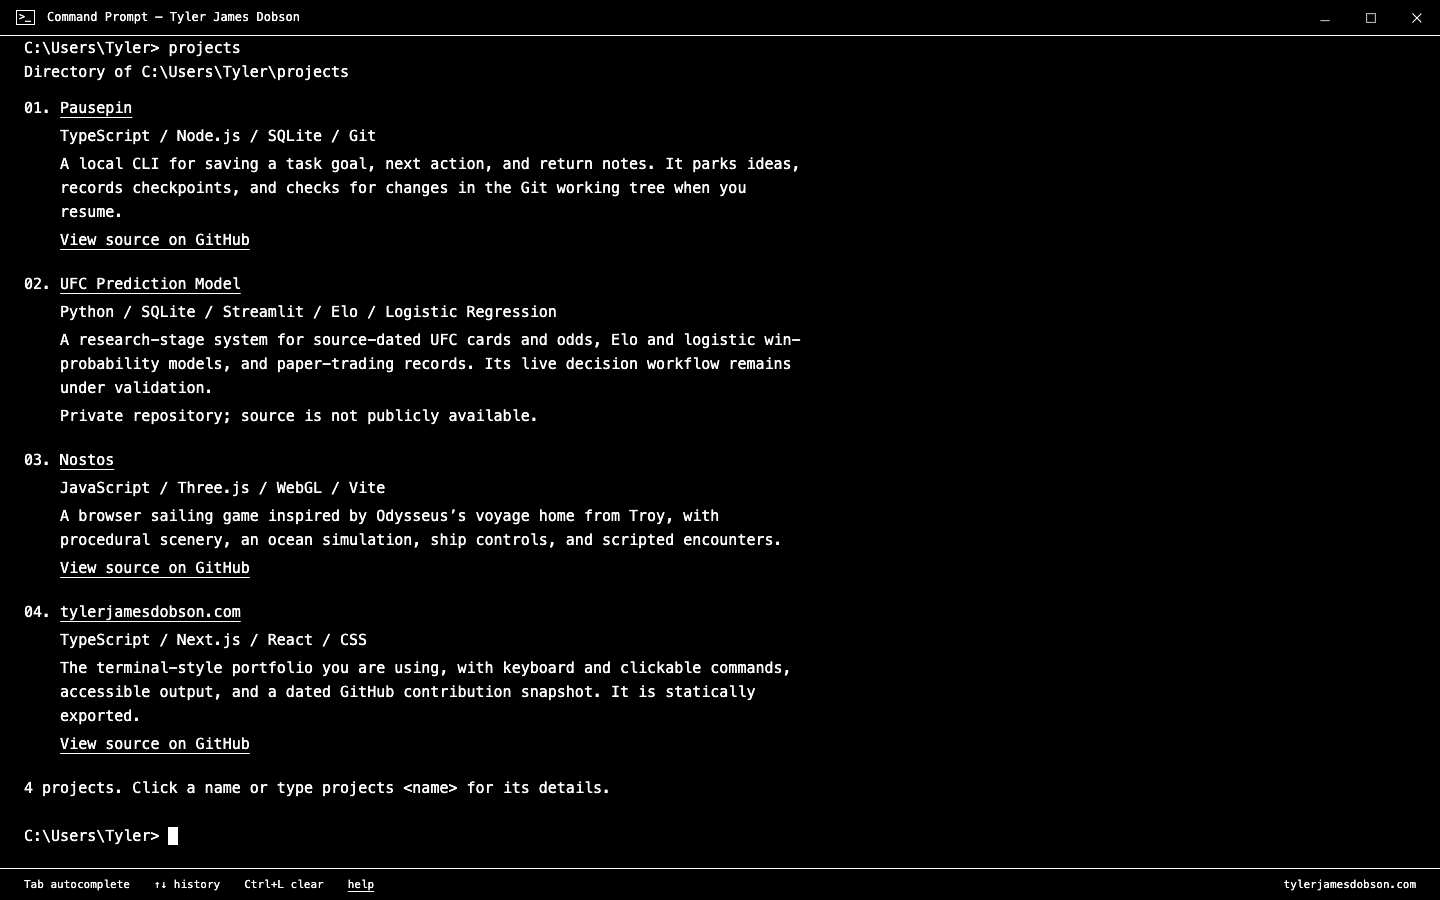
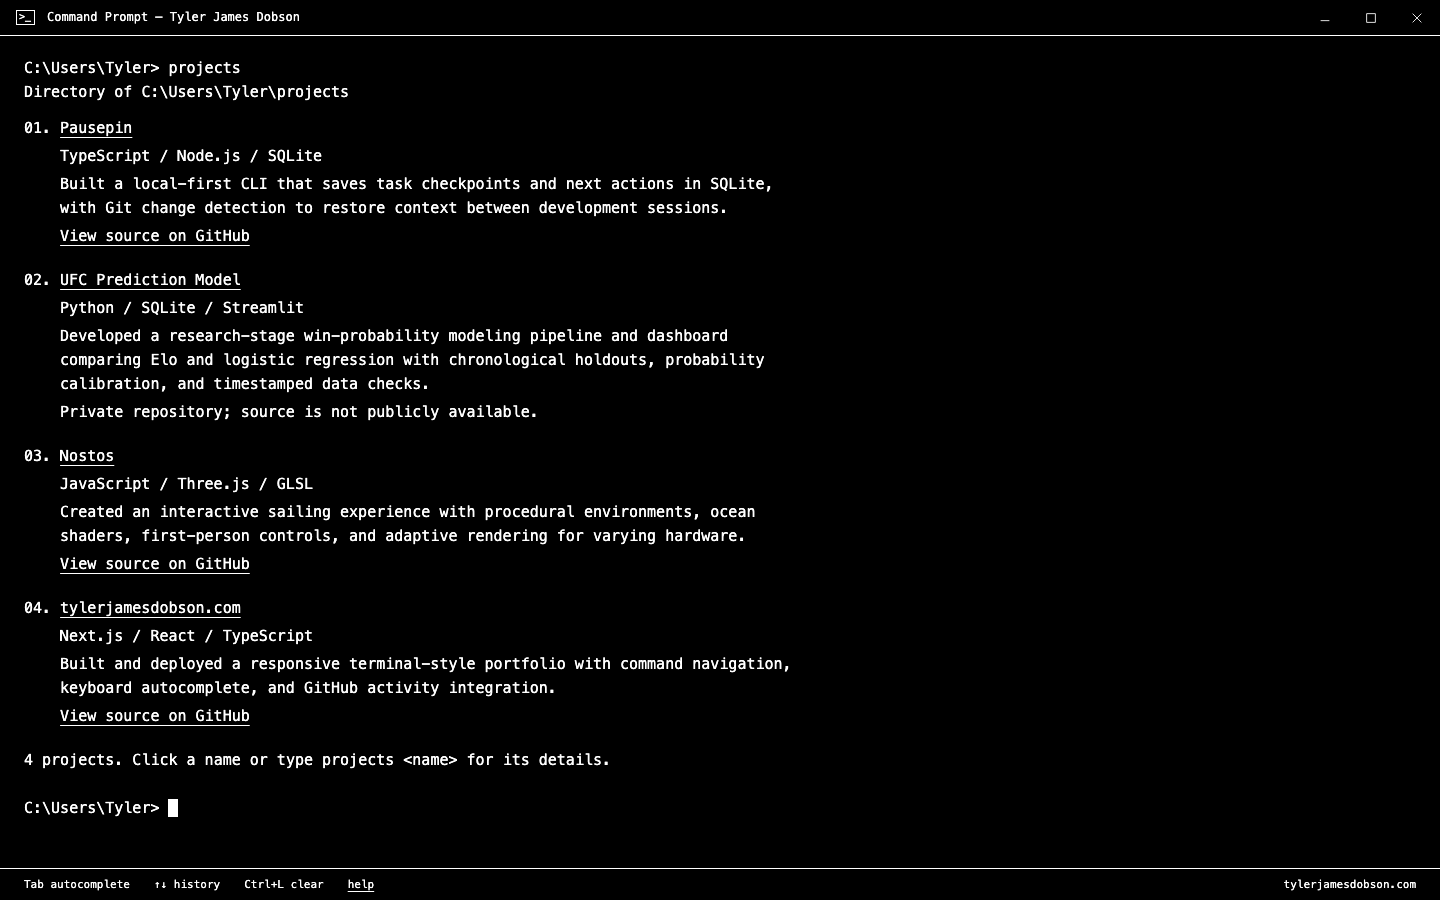
Sync portfolio resume with latest PDF

Changed region(s): [[0.0, 0.4978, 0.5625, 0.9333], [0.0, 0.0311, 0.5625, 0.28], [0.0312, 0.3111, 0.5625, 0.4667]]

diff --git a/app/portfolio.ts b/app/portfolio.ts
@@ -9,20 +9,24 @@ export const PROFILE = {
 
 export const EDUCATION = {
   school: 'University of South Florida',
-  location: 'Tampa, Florida',
-  degree: 'Business Analytics and Information Systems major',
+  location: 'Tampa, FL',
+  degree: 'B.S. in Business Analytics & Information Systems',
   graduation: 'Expected May 2027',
-  coursework: ['Business Analytics', 'Information Systems', 'Data Analysis', 'SQL & Databases', 'Programming Fundamentals (Python, Java)', 'Statistics'],
+  coursework: ['Database Design and Administration', 'Python for Business Analytics', 'Systems Analysis and Design', 'Business Application Development'],
 }
 
-export const CERTIFICATIONS = [
-  { name: 'Programming with Python Professional Certificate', issuer: 'OpenEDG Python Institute', date: 'May 2026' },
-  { name: 'Career Essentials in Data Analysis', issuer: 'Microsoft & LinkedIn', date: 'Apr 2026' },
-  { name: 'Career Essentials in GitHub Professional Certificate', issuer: 'GitHub', date: 'Apr 2026' },
-]
+export const DATA_SCIENCE_PROGRAM = {
+  name: 'Data Science Program',
+  organization: 'The Global Career Accelerator',
+  dates: 'May 2026 – Aug 2026',
+  highlights: [
+    'Completed USF/Podium credit-bearing coursework; developed SQL and Python (pandas, NumPy) skills through industry-partner projects with Intel and The Recording Academy.',
+    'Collaborated with a global student cohort under industry-practitioner mentorship to deliver analyses on Grammy.com content and audience strategy.',
+  ],
+}
 
 export const LEADERSHIP = [
-  { role: 'Social Resources Chair', organization: 'Alpha Epsilon Pi (Psi Phi)', dates: 'Nov 2025 – Present', description: 'Coordinate event logistics, vendor communication, and executive board updates under budget and compliance constraints.' },
+  { role: 'Social Resources Chair', organization: 'Alpha Epsilon Pi (Psi Phi)', dates: 'Nov 2025 – Aug 2026', description: 'Coordinated event logistics, vendor communication, and executive board updates under budget and compliance constraints.' },
   { role: 'Leadership Development Scholar', organization: 'National Society of Leadership and Success', dates: 'Sep 2024 – Present', description: 'Completed programming in communication, accountability, team development, and public speaking.' },
   { role: 'Member', organization: 'Future Business Leaders of America, USF Chapter', dates: '', description: 'Chapter programming across business analytics, finance, and information systems professional development.' },
 ]
@@ -30,23 +34,13 @@ export const LEADERSHIP = [
 export const EXPERIENCE = [
   {
     role: 'AI Model Evaluation Contractor',
-    organization: 'Handshake AI Fellowship / Handshake',
-    location: 'Tampa, FL / Remote / Part-time',
+    organization: 'Handshake AI Fellowship, Handshake',
+    location: 'Tampa, FL (Remote) / Part-time',
     dates: 'Apr 2026 – Present',
     highlights: [
-      'Evaluate AI-generated text, code, and multimodal outputs for accuracy, reasoning quality, and instruction-following against project-specific rubrics.',
+      'Evaluate AI-generated text, code, and multimodal outputs against project-specific rubrics for accuracy, reasoning quality, and instruction-following.',
       'Provide written response-level feedback supporting LLM training and evaluation workflows under strict confidentiality.',
-      'Identify inconsistencies in model behavior across diverse prompts and benchmark-style tasks.',
-    ],
-  },
-  {
-    role: 'Data Science Extern',
-    organization: 'The Global Career Accelerator',
-    location: 'Tampa, FL / Remote / Part-time',
-    dates: 'May 2026 – Present',
-    highlights: [
-      'Selected for a USF/Podium credit-bearing externship, building SQL and Python skills with pandas and NumPy through industry-partner projects with Intel and The Recording Academy.',
-      'Collaborate with a global student cohort under industry-practitioner mentorship on Grammy.com content and audience strategy analyses.',
+      'Surface inconsistencies in model behavior across diverse prompts and benchmark-style task types using independent judgment.',
     ],
   },
   {
@@ -56,17 +50,17 @@ export const EXPERIENCE = [
     dates: 'Jan 2026 – Present',
     highlights: [
       'Manage inventory flow and restocking across multiple service areas during arena events serving 15,000–20,000+ attendees.',
-      'Coordinate product movement under time-sensitive conditions to maintain service throughput during peak-volume periods.',
+      'Coordinate product movement under time-sensitive conditions to keep service throughput high during peak-volume periods.',
     ],
   },
   {
     role: 'Bartender',
     organization: 'Legends Global',
     location: 'Philadelphia, PA / Part-time',
-    dates: 'May 2024 – Present',
+    dates: 'May 2024 – Aug 2026',
     highlights: [
-      'Process 200+ transactions per shift across Clover, Toast, and Micros POS systems at events approaching 20,000 attendees.',
-      'Maintain speed, accuracy, and guest experience while coordinating service teams under sustained high-volume conditions.',
+      'Processed 200+ transactions per shift across Clover, Toast, and Micros POS systems at events approaching 20,000 attendees.',
+      'Maintained speed, accuracy, and guest experience while coordinating service teams under sustained high-volume conditions.',
     ],
   },
 ]
@@ -87,30 +81,30 @@ export const PROJECTS: PortfolioProject[] = [
   {
     slug: 'pausepin',
     name: 'Pausepin',
-    stack: 'TypeScript / Node.js / SQLite / Git',
-    description: 'A local CLI for saving a task goal, next action, and return notes. It parks ideas, records checkpoints, and checks for changes in the Git working tree when you resume.',
+    stack: 'TypeScript / Node.js / SQLite',
+    description: 'Built a local-first CLI that saves task checkpoints and next actions in SQLite, with Git change detection to restore context between development sessions.',
     href: 'https://github.com/tylerdobson/pausepin',
   },
   {
     slug: 'ufc-prediction-model',
     name: 'UFC Prediction Model',
-    stack: 'Python / SQLite / Streamlit / Elo / Logistic Regression',
-    description: 'A research-stage system for source-dated UFC cards and odds, Elo and logistic win-probability models, and paper-trading records. Its live decision workflow remains under validation.',
+    stack: 'Python / SQLite / Streamlit',
+    description: 'Developed a research-stage win-probability modeling pipeline and dashboard comparing Elo and logistic regression with chronological holdouts, probability calibration, and timestamped data checks.',
     aliases: ['ufc', 'ufc prediction', 'ufc model'],
     note: 'Private repository; source is not publicly available.',
   },
   {
     slug: 'nostos',
     name: 'Nostos',
-    stack: 'JavaScript / Three.js / WebGL / Vite',
-    description: 'A browser sailing game inspired by Odysseus’s voyage home from Troy, with procedural scenery, an ocean simulation, ship controls, and scripted encounters.',
+    stack: 'JavaScript / Three.js / GLSL',
+    description: 'Created an interactive sailing experience with procedural environments, ocean shaders, first-person controls, and adaptive rendering for varying hardware.',
     href: 'https://github.com/tylerdobson/nostos',
   },
   {
     slug: 'this-website',
     name: 'tylerjamesdobson.com',
-    stack: 'TypeScript / Next.js / React / CSS',
-    description: 'The terminal-style portfolio you are using, with keyboard and clickable commands, accessible output, and a dated GitHub contribution snapshot. It is statically exported.',
+    stack: 'Next.js / React / TypeScript',
+    description: 'Built and deployed a responsive terminal-style portfolio with command navigation, keyboard autocomplete, and GitHub activity integration.',
     aliases: ['website', 'site', 'portfolio', 'tylerjamesdobson.com'],
     href: 'https://github.com/tylerdobson/tylerjamesdobson.com--Portfolio-Website',
   },
@@ -118,11 +112,11 @@ export const PROJECTS: PortfolioProject[] = [
 
 export const DIRECTORY = [
   { name: 'projects', kind: '<DIR>', command: 'projects', description: 'Selected work' },
-  { name: 'experience', kind: '<DIR>', command: 'experience', description: 'AI evaluation, data science & operations' },
+  { name: 'experience', kind: '<DIR>', command: 'experience', description: 'AI evaluation & event operations' },
   { name: 'about.txt', kind: '', command: 'type about.txt', description: 'A little about me' },
   { name: 'stack.txt', kind: '', command: 'type stack.txt', description: 'Languages, tools & frameworks' },
   { name: 'contact.txt', kind: '', command: 'type contact.txt', description: 'Get in touch' },
-  { name: 'resume.txt', kind: '', command: 'type resume.txt', description: 'Education, experience & skills' },
+  { name: 'resume.txt', kind: '', command: 'type resume.txt', description: 'Education, experience, projects & skills' },
   { name: 'activity.log', kind: '', command: 'activity', description: 'GitHub contributions / ASCII calendar' },
 ] as const
 
@@ -131,7 +125,7 @@ export const HELP = [
   ['about', 'Read my background (also: whoami)'],
   ['projects', 'Browse selected work'],
   ['projects <name>', 'Read a project, e.g. projects nostos'],
-  ['experience', 'AI evaluation, data science, and work history'],
+  ['experience', 'AI evaluation and event operations'],
   ['stack', 'View my technical stack (also: skills)'],
   ['contact', 'Email and social links'],
   ['resume', 'Read my resume or download a text copy'],

diff --git a/components/terminal-output.tsx b/components/terminal-output.tsx
@@ -1,6 +1,6 @@
 import type { ReactNode } from 'react'
-import { CERTIFICATIONS, DIRECTORY, EDUCATION, EXPERIENCE, HELP, LEADERSHIP, PROFILE, PROJECTS, ROOT_PATH, type PortfolioData } from '@/app/portfolio'
-import { resumeText } from '@/app/resume'
+import { DATA_SCIENCE_PROGRAM, DIRECTORY, EDUCATION, EXPERIENCE, HELP, LEADERSHIP, PROFILE, PROJECTS, ROOT_PATH, type PortfolioData } from '@/app/portfolio'
+import { RESUME_NAME, RESUME_WEBSITE, resumeChannels, resumeChannelValue, resumeText } from '@/app/resume'
 
 export type TerminalOutputKind = 'directory' | 'about' | 'projects' | 'project' | 'experience' | 'stack' | 'contact' | 'resume' | 'activity' | 'help' | 'all' | 'text'
 export type TerminalOutputValue = { kind: TerminalOutputKind; value?: string }
@@ -20,8 +20,6 @@ export function CommandLink({ command, runCommand, children }: {
 }
 
 export default function TerminalOutput({ output, data, runCommand }: OutputProps) {
-  const email = data.channels.find(channel => channel.name === 'Email')?.href ?? ''
-
   switch (output.kind) {
     case 'directory':
       return <>
@@ -106,25 +104,45 @@ export default function TerminalOutput({ output, data, runCommand }: OutputProps
     case 'resume':
       return <div className="all-output resume-output">
         <header className="text-output">
-          <h2>Resume / Tyler James Dobson</h2>
-          <p>{PROFILE.headline} / {PROFILE.location}</p>
+          <h2>Resume / {RESUME_NAME}</h2>
+          <p>{EDUCATION.location}</p>
+          <p>{resumeChannels(data).map((channel, index, channels) => <span key={channel.name}>
+            <a href={channel.href} target={channel.href.startsWith('https:') ? '_blank' : undefined} rel="noopener noreferrer">{resumeChannelValue(channel)}</a>{index < channels.length - 1 ? ' · ' : ''}
+          </span>)}</p>
+          <p><a href={RESUME_WEBSITE} target="_blank" rel="noopener noreferrer">tylerjamesdobson.com</a></p>
           <p><a href={'data:text/plain;charset=utf-8,' + encodeURIComponent(resumeText(data))} download="tyler-james-dobson-resume.txt">Download resume.txt</a></p>
-          <p><a href={email}>Contact me by email</a></p>
         </header>
         <section className="text-output">
           <h3>Education</h3>
-          <p>{EDUCATION.school} / {EDUCATION.location}</p>
+          <p>{EDUCATION.school} / {EDUCATION.location} / {EDUCATION.graduation}</p>
           <p>{EDUCATION.degree}</p>
-          <p>{EDUCATION.graduation}</p>
-          <p>Relevant coursework: {EDUCATION.coursework.join(', ')}.</p>
         </section>
-        <TerminalOutput output={{ kind: 'experience' }} data={data} runCommand={runCommand} />
-        <TerminalOutput output={{ kind: 'stack' }} data={data} runCommand={runCommand} />
         <section className="text-output">
-          <h3>Certifications</h3>
-          <ul className="experience-highlights">{CERTIFICATIONS.map(certificate => <li key={certificate.name}>
-            {certificate.name} / {certificate.issuer} / {certificate.date}
-          </li>)}</ul>
+          <h3>Experience</h3>
+          <div className="experience-list">{EXPERIENCE.map(position => <article key={position.organization}>
+            <h4>{position.role}</h4>
+            <p>{position.organization} / {position.location} / {position.dates}</p>
+            <ul className="experience-highlights">{position.highlights.map(highlight => <li key={highlight}>{highlight}</li>)}</ul>
+          </article>)}</div>
+        </section>
+        <section className="text-output">
+          <h3>Projects</h3>
+          <div className="experience-list">{PROJECTS.map(project => <article key={project.slug}>
+            <h4>{project.name}</h4>
+            <p>{project.stack}</p>
+            <ul className="experience-highlights"><li>{project.description}</li></ul>
+            {project.href ? <p><a href={project.href} target="_blank" rel="noopener noreferrer">{project.href.replace('https://', '')}</a></p> : <p>{project.note}</p>}
+          </article>)}</div>
+        </section>
+        <section className="text-output">
+          <h3>Tools &amp; skills</h3>
+          {data.skills.map(group => <p key={group.name}><strong>{group.name}:</strong> {group.items.join(', ')}</p>)}
+        </section>
+        <section className="text-output">
+          <h3>Relevant coursework</h3>
+          <p>{EDUCATION.coursework.join('; ')}.</p>
+          <h4>{DATA_SCIENCE_PROGRAM.name} / {DATA_SCIENCE_PROGRAM.organization} / {DATA_SCIENCE_PROGRAM.dates}</h4>
+          <ul className="experience-highlights">{DATA_SCIENCE_PROGRAM.highlights.map(highlight => <li key={highlight}>{highlight}</li>)}</ul>
         </section>
         <section className="text-output">
           <h3>Leadership</h3>
@@ -134,7 +152,6 @@ export default function TerminalOutput({ output, data, runCommand }: OutputProps
             <p>{position.description}</p>
           </article>)}</div>
         </section>
-        <TerminalOutput output={{ kind: 'contact' }} data={data} runCommand={runCommand} />
       </div>
     case 'activity':
       return <section className="contribution-output">

diff --git a/app/resume.ts b/app/resume.ts
@@ -1,17 +1,28 @@
-import { CERTIFICATIONS, EDUCATION, EXPERIENCE, LEADERSHIP, PROFILE, type PortfolioData } from './portfolio'
+import { DATA_SCIENCE_PROGRAM, EDUCATION, EXPERIENCE, LEADERSHIP, PROJECTS, type PortfolioData } from './portfolio'
 
-// The display and download share the same data so corrections reach both.
+export const RESUME_NAME = 'Tyler Dobson'
+export const RESUME_WEBSITE = 'https://tylerjamesdobson.com'
+
+// Keep the PDF's public contact channels in the resume; the contact command has more options.
+export function resumeChannels(data: PortfolioData) {
+  return data.channels.filter(channel => ['Email', 'USF email', 'LinkedIn', 'GitHub'].includes(channel.name))
+}
+
+export function resumeChannelValue(channel: PortfolioData['channels'][number]) {
+  return channel.href.startsWith('https://') ? channel.href.slice('https://'.length) : channel.value
+}
+
+// The display and download share the same source facts so corrections reach both.
 export function resumeText(data: PortfolioData): string {
   return [
-    'TYLER JAMES DOBSON',
-    PROFILE.headline,
-    PROFILE.location,
-    ...data.channels.map(channel => `${channel.name}: ${channel.value}`),
+    RESUME_NAME.toUpperCase(),
+    EDUCATION.location,
+    ...resumeChannels(data).map(channel => `${channel.name}: ${resumeChannelValue(channel)}`),
+    `Website: ${RESUME_WEBSITE}`,
     '',
     'EDUCATION',
-    `${EDUCATION.school} | ${EDUCATION.location}`,
-    `${EDUCATION.degree} | ${EDUCATION.graduation}`,
-    `Relevant coursework: ${EDUCATION.coursework.join(', ')}`,
+    `${EDUCATION.school} | ${EDUCATION.location} | ${EDUCATION.graduation}`,
+    EDUCATION.degree,
     '',
     'EXPERIENCE',
     ...EXPERIENCE.flatMap(position => [
@@ -20,11 +31,20 @@ export function resumeText(data: PortfolioData): string {
       ...position.highlights.map(highlight => `- ${highlight}`),
       '',
     ]),
+    'PROJECTS',
+    ...PROJECTS.flatMap(project => [
+      `${project.name} | ${project.stack}`,
+      `- ${project.description}`,
+      project.href ?? project.note ?? '',
+      '',
+    ]),
     'TOOLS & SKILLS',
     ...data.skills.map(group => `${group.name}: ${group.items.join(', ')}`),
     '',
-    'CERTIFICATIONS',
-    ...CERTIFICATIONS.map(certificate => `${certificate.name} | ${certificate.issuer} | ${certificate.date}`),
+    'RELEVANT COURSEWORK',
+    EDUCATION.coursework.join('; '),
+    `${DATA_SCIENCE_PROGRAM.name} | ${DATA_SCIENCE_PROGRAM.organization} | ${DATA_SCIENCE_PROGRAM.dates}`,
+    ...DATA_SCIENCE_PROGRAM.highlights.map(highlight => `- ${highlight}`),
     '',
     'LEADERSHIP',
     ...LEADERSHIP.flatMap(position => [
@@ -32,7 +52,5 @@ export function resumeText(data: PortfolioData): string {
       position.description,
       '',
     ]),
-    'Website: https://tylerjamesdobson.com',
-    '',
   ].join('\n')
 }

diff --git a/app/layout.tsx b/app/layout.tsx
@@ -3,7 +3,7 @@ import './globals.css'
 export const metadata: Metadata = {
   metadataBase: new URL('https://tylerjamesdobson.com'),
   title: 'Tyler James Dobson',
-  description: 'Tyler James Dobson is a Business Analytics and Information Systems major at the University of South Florida. Explore his projects, education, experience, skills, resume, and GitHub activity in an interactive terminal.',
+  description: 'Tyler James Dobson is a University of South Florida student earning a B.S. in Business Analytics & Information Systems. Explore his projects, education, experience, skills, resume, and GitHub activity in an interactive terminal.',
   alternates: { canonical: '/' },
 }
 export const viewport: Viewport = { width: 'device-width', initialScale: 1, themeColor: '#000000' }

diff --git a/docs/content.md b/docs/content.md
@@ -4,7 +4,7 @@ Reviewed September 28, 2026.
 
 ## Source of truth
 
-The owner confirmed `resume.pdf` as the latest resume for the September 26 update. On September 28, Tyler directly confirmed that his major is Business Analytics and Information Systems at the University of South Florida, with expected graduation in May 2027. This supersedes the older resume's degree wording. The resume remains the source for employment roles and dates, certifications, leadership, and other listed tools. The original document is not distributed in this repository.
+The current source is `Tyler-Dobson-Resume-Updated.pdf`, downloaded September 28, 2026. It lists a B.S. in Business Analytics & Information Systems at the University of South Florida, expected May 2027. It supplies the resume's employment roles and dates, projects, skills, coursework, and leadership. The original PDF is not distributed in this repository.
 
 GitHub repository code and manifests were reviewed to substantiate additional languages and development tools. A technology appearing in code is evidence of use, not an expertise rating, employment history, or proof of sole authorship. The site does not invent skill percentages, years of experience, audience numbers, or production outcomes.
 
@@ -12,16 +12,16 @@ The projects directory includes Pausepin, UFC Prediction Model, Nostos, and tyle
 
 ## Files to maintain
 
-- `app/portfolio.ts`: profile, projects, education, experience, certifications, leadership, and terminal directory/help text.
-- `app/tech.ts`: categorized languages and tools. Python, SQL, JavaScript, HTML/CSS, Java, and data/BI tools follow the resume. TypeScript, web frameworks, Node.js, Supabase, and Playwright are supported by inspected GitHub code. On September 28, Tyler confirmed Java, Excel, and Power BI for inclusion, requested removing R, and requested that AI tools, including Claude Code, Codex, and Cursor, be excluded from the displayed stack.
+- `app/portfolio.ts`: profile, projects, education, experience, coursework, leadership, and terminal directory/help text.
+- `app/tech.ts`: categorized languages and tools from the updated resume. On September 28, Tyler requested that AI tools, including Claude Code, Codex, and Cursor, be excluded from the displayed stack.
 - `app/contact.ts`: public emails, LinkedIn, and GitHub. Tyler confirmed `tydobson41@gmail.com`, `tylerjamesdobson1@gmail.com`, and `tylerdobson@usf.edu` as contact addresses on September 28. Conflicting X profile values were omitted.
-- `app/resume.ts`: text formatting only. The download reuses the same facts as the rendered resume instead of maintaining a second copy.
+- `app/resume.ts`: the resume name, public contact selection, and text formatting. The download reuses the same facts as the rendered resume instead of maintaining a second copy.
 - `scripts/fetch-activity.mjs`: public contribution calendar and recent public commits, with the actual capture date displayed.
 
-The source resume's phone number remains omitted from this public version. The public resume contains no project section.
+The source PDF includes a phone number, which remains omitted from the public website. The public resume uses the PDF's two email addresses and profile links; the separate `contact` command also retains Tyler's requested personal email. The public resume includes the same four projects as the site directory. Its UFC entry does not link to the private repository.
 
 ## Before updating or launching
 
-Review dates marked “Present” against the owner's current status. Treat certificate titles and dates as resume-reported unless separately verified. Do not substitute a differently worded web resume solely because its code commit is newer. Update source facts once, then check `about`, `experience`, `stack`, `resume`, `contact`, `all`, and both downloads.
+Review dates marked “Present” against the owner's current status. Do not substitute a differently worded web resume solely because its code commit is newer. Update source facts once, then check `about`, `experience`, `projects`, `stack`, `resume`, `contact`, `all`, and both downloads.
 
 The calendar refresh is a dated snapshot, not a continuous feed. A successful deployment requires a fresh calendar; recent commit retrieval is best effort. No private repository credentials or authenticated activity APIs are used by the build.

diff --git a/README.md b/README.md
@@ -40,7 +40,7 @@ The live terminal portfolio displays its projects directory.
 - Commands: `help`, `dir`, `about`, `projects`, `projects <name>`, `experience`, `stack`, `contact`, `resume`, `activity`, `all`, `type`, `cd`, `history`, `cls`, and `exit`.
 - Tab completion, command history, keyboard navigation, reduced-motion support, and an accessible output log.
 - The terminal runs entirely in the visitor’s browser. Commands browse portfolio content; they do not execute shell commands.
-- The `resume` command displays education, experience, skills, certifications, and leadership. Its text download uses the same content as the display.
+- The `resume` command displays education, experience, projects, skills, coursework, and leadership. Its text download uses the same source facts as the display.
 - The projects directory features Pausepin, UFC Prediction Model, Nostos, and tylerjamesdobson.com. The UFC repository is private, so its listing has no source link.
 
 ## Technology
@@ -75,7 +75,7 @@ A [manual GitHub Pages deployment workflow](.github/workflows/deploy-pages.yml) 
 | Path | Purpose |
 | --- | --- |
 | `app/page.tsx`, `app/layout.tsx` | Page assembly, metadata, and document layout |
-| `app/portfolio.ts` | Profile, projects, education, experience, certifications, leadership, and command descriptions |
+| `app/portfolio.ts` | Profile, projects, education, experience, coursework, leadership, and command descriptions |
 | `app/contact.ts`, `app/tech.ts` | Public contact links and technical skills |
 | `app/resume.ts` | Generates the public text resume from the same content used on screen |
 | `components/terminal-portfolio.tsx` | Interactive terminal and command handling |
